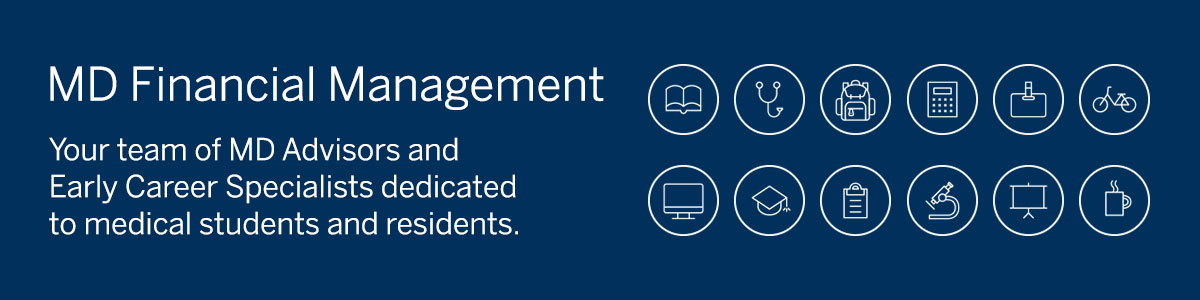
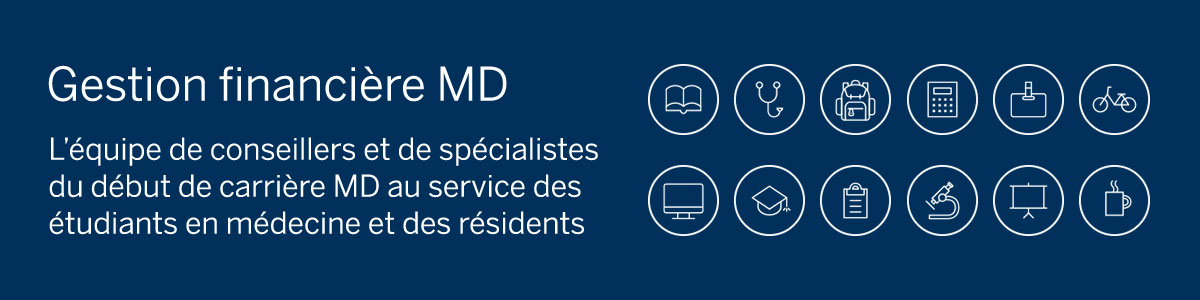
mdfm translations

diff --git a/src/site/fr/resources/student-finances.html b/src/site/fr/resources/student-finances.html
@@ -28,7 +28,7 @@ sitemap:
 
 	<div class="finances-banner-outer">
 		<div class="content finances-banner-inner" style="background-color:#00305B;">
-			<img src="{{site.root}}/images/banners/MedEd-Counsel-Campaign-Banner-e.jpg">
+			<img src="{{site.root}}/images/banners/MedEd-Counsel-Campaign-Banner-f.jpg">
 		</div>
 	</div>
 	<div class="finances content">
@@ -39,52 +39,52 @@ sitemap:
 		</script>
 		<div class="student-finances-content editable">
 			<h1 id="page-title">Medical Student Finances</h1>
-			<a id="finances-side-image" href="https://mdm.ca/"><img class="right" style="max-width:25%" src="/images/MDFM.jpg"></a>
-			<p>At CFMS, we have an exclusive partnership with <a href="https://mdm.ca/">MD Financial Management</a> to provide medical students with comprehensive financial planning, financial education and a wide range of support for events and services, including the leadership and travel awards.</p>
-			<p>MD has created onboardMD, a site full of tools and resources developed for med students just like you. We also have a team of MD Advisors and Early Career Specialists dedicated to supporting medical students and residents, whether they need help with budgeting, cash flow management, finding the right credit solution or any other financial challenge.</p>
+			<a id="finances-side-image" href="https://mdm.ca/fr/gestion-financiere-md"><img class="right" style="max-width:25%" src="/images/MDFM-f.jpg"></a>
+			<p>La FEMC a conclu un partenariat exclusif avec <a href="https://mdm.ca/fr/gestion-financiere-md">Gestion financière MD</a> afin que cette dernière offre aux étudiants en médecine des services complets de planification et d’éducation financière, ainsi qu’un large éventail de mécanismes de soutien liés à divers événements et services, notamment les subventions de leadership et de voyage.</p>
+			<p>MD a créé le site onboardMD qui contient des ressources et des outils conçus pour les étudiants en médecine comme vous. MD compte sur une équipe de conseillers et de spécialistes du début de carrière qui a pour tâche d’aider les étudiants en médecine et les médecins résidents dans les différents aspects de la gestion de leurs finances : établissement d’un budget, gestion des revenus et des dépenses, recherche d’une solution de crédit appropriée ou élaboration d’autres stratégies financières.</p>
 			<p></p>
-			<blockquote><h3><p><b><a href="https://advisors-en.onboardmd.com/">Meet your MD team to find out how they can help!</a></b></p></h3></blockquote>
-			<h2>Financial Checklist for Medical Students</h2>
-			<p>With the high cost of tuition and living expenses, medical school can be challenging from a financial perspective. In fact, nine of every 10 medical students will incur debt by the end of their medical education.</p>
-			<p>Here are <strong>six steps</strong> you can take to ensure you come out ahead:</p>
+			<blockquote><h3><p><b><a href="https://advisors-fr.onboardmd.com/">Rencontrez votre équipe MD et découvrez comment elle peut vous aider!</a></b></p></h3></blockquote>
+			<h2>Liste de contrôle des mesures financières pour les étudiants en médecine</h2>
+			<p>Comme les frais de scolarité et de subsistance sont de plus en plus élevés, il arrive que les études en médecine soient particulièrement difficiles sur le plan financier. En fait, neuf étudiants en médecine sur dix auront accumulé des dettes à la fin de leurs études.</p>
+			<p>Voici <strong>six mesures</strong> à votre portée pour vous assurer de vous en sortir sans trop de dommages:</p>
 			<div id="reasons-financial-advisor">
 				<ul>
-					<li><a href="https://advisors-en.onboardmd.com">Meet with an MD Advisor</a>
-						<p>Medical students assume because they often have little or no financial wealth that they don’t need financial advice. But financial planning involves more than accumulating assets. An MD Advisor can assess your situation and develop a financial plan so you can graduate with as little debt as possible.</p>
+					<li><a href="https://advisors-fr.onboardmd.com/">Prendre rendez-vous avec un conseiller MD</a>
+						<p>Les étudiants en médecine tiennent pour acquis qu’ayant peu ou pas d’argent, ils n’ont pas besoin de conseils financiers. Pourtant, la planification financière n’est pas réservée à ceux qui ont accumulé des biens. Un conseiller MD peut analyser votre situation et élaborer avec vous un plan financier qui vous aidera à terminer vos études sans trop vous endetter.</p>
 					</li>
-					<li>Determine your financing needs and obtain funding
-						<p>If you need financial assistance, be sure to apply for scholarships and bursaries, and get student loans from the government. You can also use a professional student line of credit to pay for your medical school and other living expenses. Be sure to create your cash flow and budget so that you can lower your medical school debt.</p>
+					<li>Calculez vos besoins de financement et obtenez les fonds nécessaires
+						<p>Si vous avez besoin d’aide, assurez-vous de présenter des demandes de bourses d’études et de prêts étudiants offerts par l’État. Vous pouvez aussi présenter une demande de ligne de crédit pour étudiants afin de financer vos études en médecine et vos autres frais de subsistance. Assurez-vous cependant de planifier vos revenus et vos dépenses et de vous doter d’un budget afin de réduire au strict minimum la note à payer à la fin de vos études.</p>
 					</li>
-					<li>Take control of your financial health
-						<p>Establishing a budget, cash flow and/or savings plan will go a long way in helping you manage your debt, protect your credit, manage savings and meet financial goals. Visit <a href="http://md.ca">md.ca</a> to find a number of tools you can use to stay on top of your financial well-being.</p>
+					<li>Prenez votre santé financière en main
+						<p>Un budget, un programme de gestion des revenus et des dépenses et un régime d’épargne sont autant de moyens qui vous aideront à gérer vos dettes, protéger votre crédit, gérer votre épargne et atteindre vos objectifs financiers. Visitez <a href="https://mdm.ca/fr/gestion-financiere-md">md.ca</a> pour accéder aux outils qui vous aideront à assurer votre mieux-être financier.</p>
 					</li>
-					<li>Consider the car and home options 
-						<p>Transportation can have a big impact on your finances. If you’re thinking about buying and financing a car, an Advisor can help you weigh the options and come to a decision.</p>
-						<p>Most students will rent during medical school, but depending on your situation, buying a home may be a viable option. An MD Advisor can walk you through the <a href="https://mdm.ca/tools/rent-or-buy-calculator">rent vs. buy decision</a>, and refer you to mortgage specialists.
+					<li>Auto et logement : évaluez vos options
+						<p>Le transport peut peser lourdement sur vos finances. Si vous pensez financer l’achat d’un véhicule, un conseiller peut vous aider à évaluer vos options et à prendre la meilleure décision possible.</p>
+						<p>La plupart des étudiants en médecine louent un logement pendant leurs études. Pourtant, tout dépendant de votre situation, l’achat d’une maison pourrait être une solution viable. Un conseiller MD peut étudier avec vous les arguments en faveur de la <a href="https://mdm.ca/fr/outils/outil-de-comparaison-entre-la-location-et-l-achat">location ou de l’achat</a> et vous recommander des spécialistes des prêts hypothécaires.
 						</p>
 					</li>
-					<li>Protect yourself with insurance
-						<p>Your ability to earn future income as a resident and practising physician is your most important asset. An MD Advisor can help you develop a plan to protect your family, property and earning potential, and ensure the coverage is always aligned with your needs and career stage.</p>
+					<li>Souscrivez les assurances nécessaires à votre protection
+						<p>Votre capacité future de gagner un revenu en tant que résident et médecin en exercice représente votre actif le plus important. Un conseiller MD peut vous aider à vous doter d’un plan qui protégera votre famille, vos biens et vos gains potentiels et s’assurer que votre protection correspond en tout temps à vos besoins et à chaque étape de votre carrière.</p>
 					</li>
-					<li>Assemble a team of financial experts
-						<p>If you need assistance from other financial experts, an MD Advisor will be able to provide referrals to lawyers, mortgage specialists, insurance specialists and estate and trust specialists.</p>
+					<li>Réunissez une équipe de spécialistes financiers
+						<p>Si vous avez besoin des services d’autres spécialistes financiers, un conseiller MD sera en mesure de vous recommander des avocats, des spécialistes des prêts hypothécaires, de l’assurance et des successions et fiducies.</p>
 					</li>
 				</ul>
 			</div>
 			<blockquote style="margin-top:0px;">
-				<h3><strong>onboardMD: your journey in medicine starts here</strong></h3>
-				<p>From pre-med to starting your practice, onboardMD gives you tools, information, and insights that will simplify your path to becoming a physician in Canada.</p>
+				<h3><strong>OnboardMD : votre parcours en médecine commence ici.</strong></h3>
+				<p>La plateforme onboardMD vous propose des outils, des renseignements et des conseils qui devraient faciliter votre parcours pour devenir médecin au Canada, de la formation prémédicale à l’exercice de la médecine.</p>
 				<ol>
-					<li>Check out the <a href="https://en.onboardmd.com/specnav?continueUrl=https%3A%2F%2Fspecnav-en.onboardmd.com%2F">Specialty Navigator</a> to find out which specialty is right for you.</li>
-					<li>Curious about what's going on in the medical community? Find out in our <a href="https://events-en.onboardmd.com/">Events</a> section.</li>
-					<li>In our <a href="https://resources-en.onboardmd.com/">Resources</a> section you will find a curated collection of actionable tips, community resources, best practices and inspiring stories to help you each step of the way as you progress in your medical career.</li>
+					<li>Parcourez l’<a href="https://fr.onboardmd.com/specnav?continueUrl=https%3A%2F%2Fspecnav-en.onboardmd.com%2F">explorateur des spécialités</a> pour trouver la spécialité qui vous convient.</li>
+					<li>Vous êtes curieux de savoir ce qui se passe dans la communauté médicale? Consultez la section <a href="https://events-fr.onboardmd.com/">événements</a>.</li>
+					<li>Dans la section <a href="https://resources-fr.onboardmd.com/">ressources</a>, vous trouverez une collection triée sur le volet de conseils pratiques, de ressources communautaires, de pratiques exemplaires et d’histoires inspirantes pour vous aider à chacune des étapes de votre carrière médicale.</li>
 				</ol>
-				<p><img src="/images/onboardMD_e.jpg"></p>
+				<p><img src="/images/onboardMD_f.jpg"></p>
 			</blockquote>
 			<div class="addendum">
-				<p>Banking products and services are offered by The Bank of Nova Scotia. Credit and lending products are subject to credit approval by The Bank of Nova Scotia.</p>
-				<p>The information contained in this document is not intended to offer foreign or domestic taxation, legal, accounting or similar professional advice, nor is it intended to replace the advice of independent tax, accounting or legal professionals. Incorporation guidance is limited to asset allocation and integrating corporate entities into financial plans and wealth strategies. Any tax-related information is applicable to Canadian residents only and is in accordance with current Canadian tax law including judicial and administrative interpretation. The information and strategies presented here may not be suitable for U.S. persons (citizens, residents or green card holders) or non-residents of Canada, or for situations involving such individuals. Employees of the MD Group of Companies are not authorized to make any determination of a client’s U.S. status or tax filing obligations, whether foreign or domestic. The MD ExO® service provides financial products and guidance to clients, delivered through the MD Group of Companies (MD Financial Management Inc., MD Management Limited, MD Private Trust Company, MD Life Insurance Company and MD Insurance Agency Limited). For a detailed list of these companies, visit md.ca. MD Financial Management provides financial products and services, the MD Family of Funds and investment counselling services through the MD Group of Companies.</p>
-				<p>onboardMD.com is owned and operated by MD Financial Management</p>
+				<p>Les produits et services bancaires sont offerts par La Banque de Nouvelle-Écosse. Les produits de crédit et de prêts sont soumis à une approbation du crédit par La Banque de Nouvelle-Écosse.</p>
+				<p>L’information contenue dans le présent document ne doit pas être interprétée comme des conseils professionnels d’ordre fiscal, juridique, comptable ou de nature similaire applicables en contexte canadien ou étranger, et elle ne saurait en aucun cas remplacer les conseils d’un fiscaliste, d’un comptable ou d’un conseiller juridique indépendant. Les recommandations sur la constitution en société se limitent à la répartition de l’actif et à l’intégration des personnes morales dans les plans financiers et les stratégies de gestion de patrimoine. Toute information d’ordre fiscal ne s’applique qu’aux résidents canadiens et s’appuie sur le droit canadien de l’impôt en vigueur, notamment sur l’interprétation judiciaire et administrative en la matière. L’information et les stratégies ci-indiquées peuvent ne pas convenir aux personnes des États-Unis (citoyens, résidents ou détenteurs d’une carte verte) ou aux non-résidents du Canada, ni dans des situations mettant en cause de telles personnes. Les employés du groupe de sociétés MD ne sont pas habilités à déterminer si un client est considéré comme une personne des États-Unis ou soumis à des obligations de déclaration de revenus, au Canada ou à l’étranger. Le service ExO MDMD offre aux clients des conseils et des produits financiers par l’entremise du groupe de sociétés MD (Gestion financière MD inc., Gestion MD limitée, la Société de fiducie privée MD, la Société d’assurance vie MD et l’Agence d’assurance MD limitée). Pour obtenir une liste détaillée de ces sociétés, veuillez consulter notre site à l’adresse md.ca. Gestion financière MD offre des produits et services financiers, la famille de fonds MD et des services-conseils en placement par l’entremise du groupe de sociétés MD.</p>
+				<p>Gestion financière MD (MD) est propriétaire et exploitant d’onboardMD.com.</p>
 			</div>
 		</div>
 	</div>

diff --git a/src/site/fr/resources/index.html b/src/site/fr/resources/index.html
@@ -68,12 +68,12 @@ Information -->
 			</a>
 			<a class="resource" href="student-finances.html">
 				<div class="resource-info">
-					<div class="resource-name">Student Resources from MD</div>
+					<div class="resource-name">Ressources de MD pour les étudiants</div>
 					<div class="resource-type information"><span>Information</span></div>
-					<div class="resource-desc">From navigating your finances to surviving classes and residency, MD Financial Management and onboardMD are here to help.</div>
+					<div class="resource-desc">Que ce soit pour organiser vos finances ou survivre aux études et à la résidence, vous pouvez compter sur Gestion financière MD et onboardMD.</div>
 				</div>
 				<div class="resource-pic">
-					<img src="/images/resource-logos/mdfm-logo-white.png">
+					<img src="/images/resource-logos/mdfm-logo-white-f.png">
 				</div>
 			</a>
 		</div>
